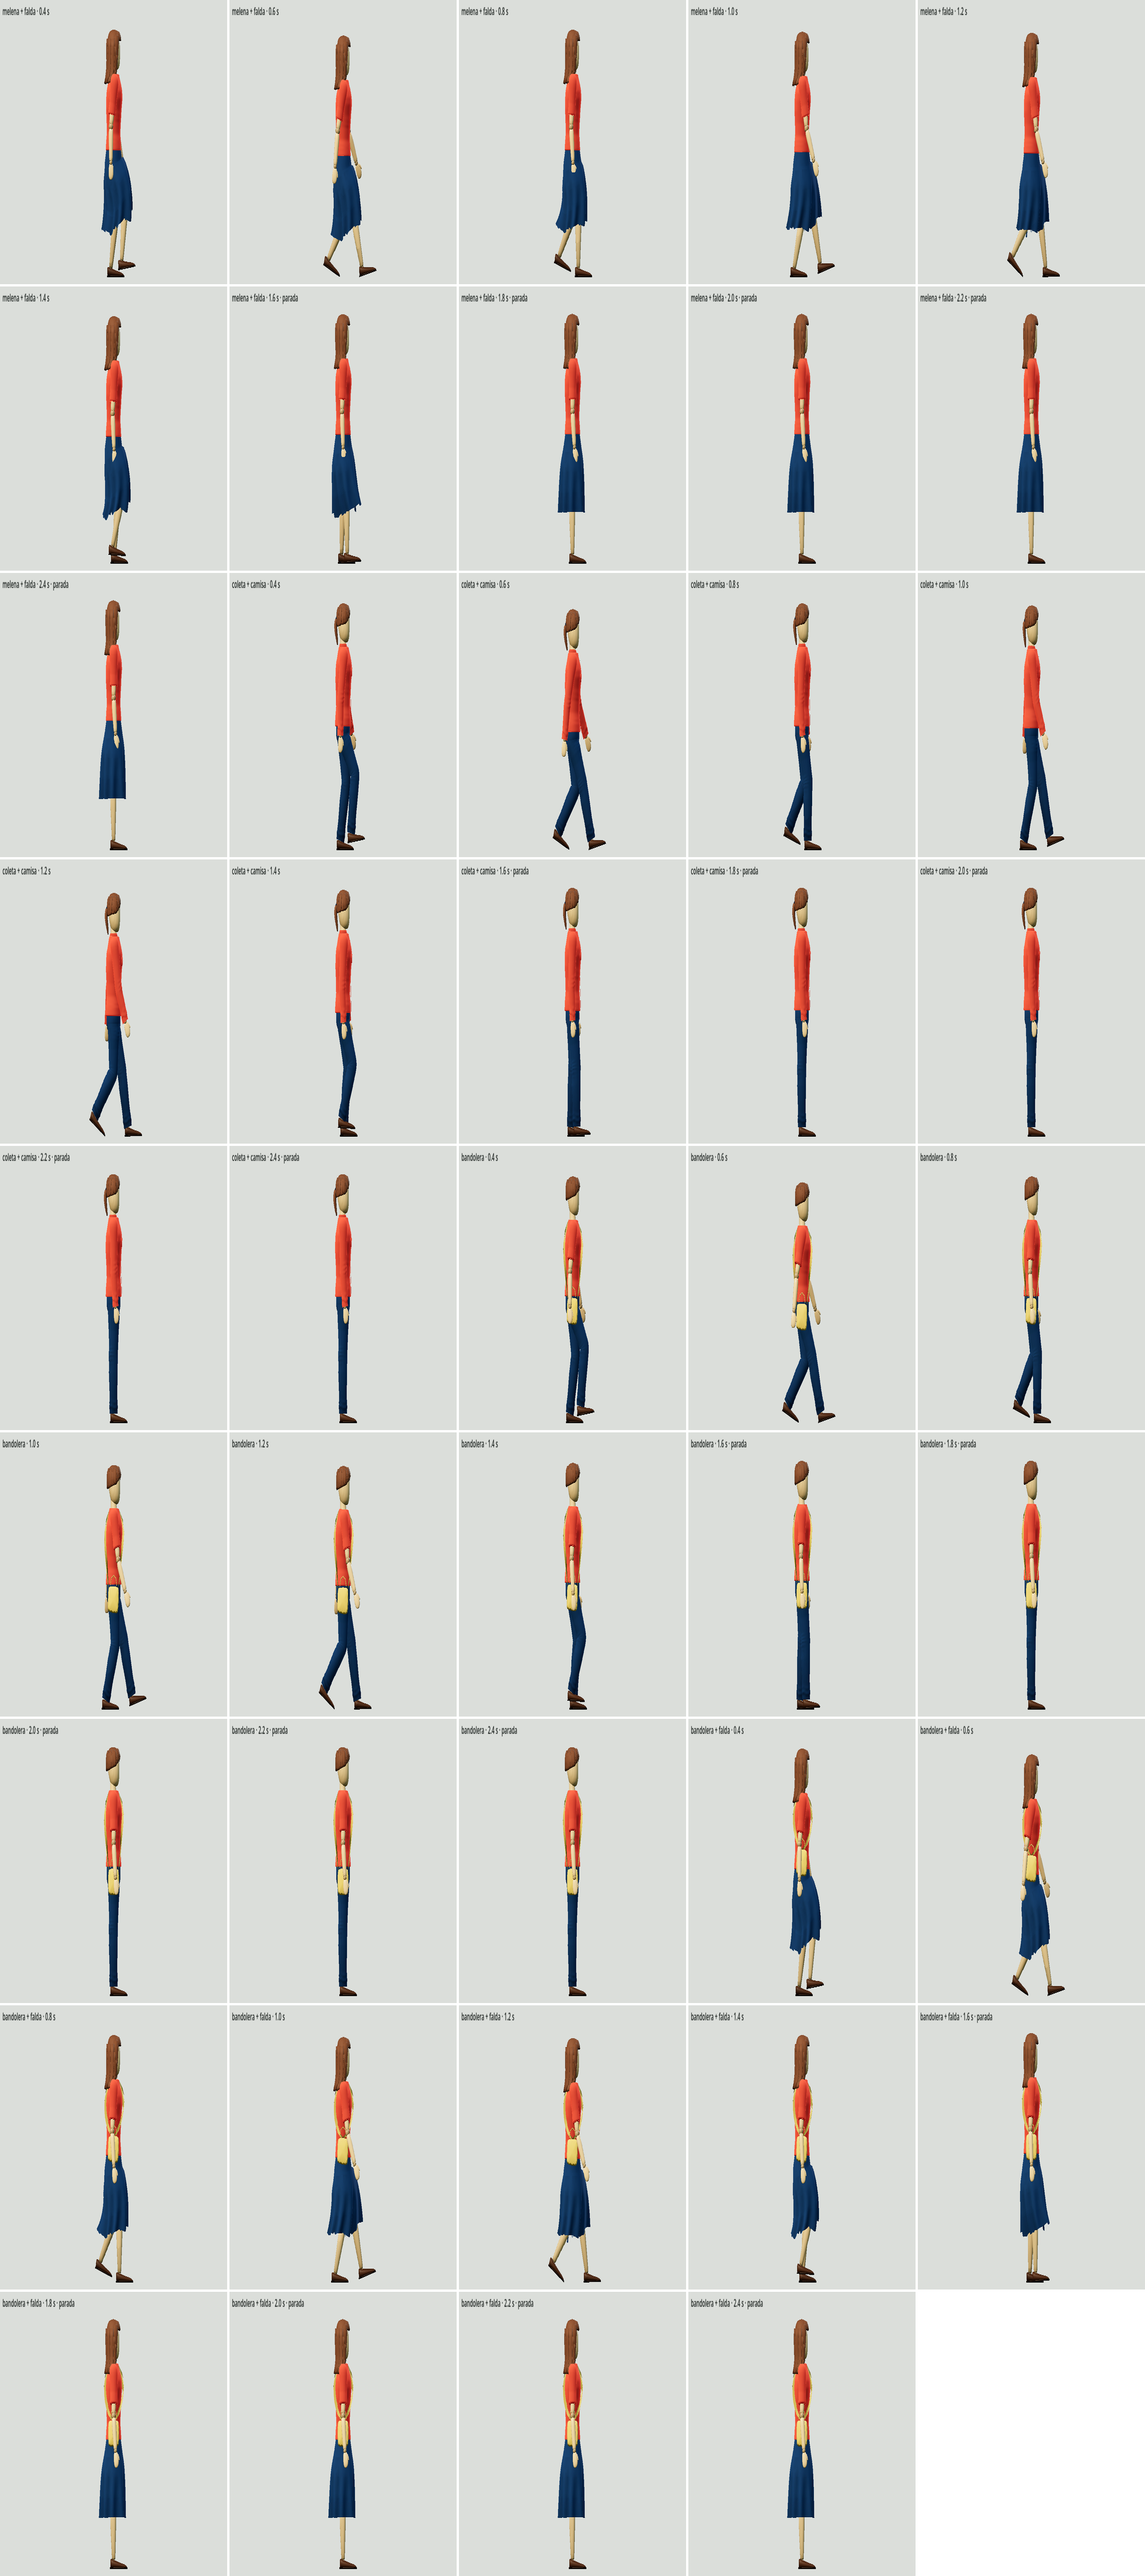
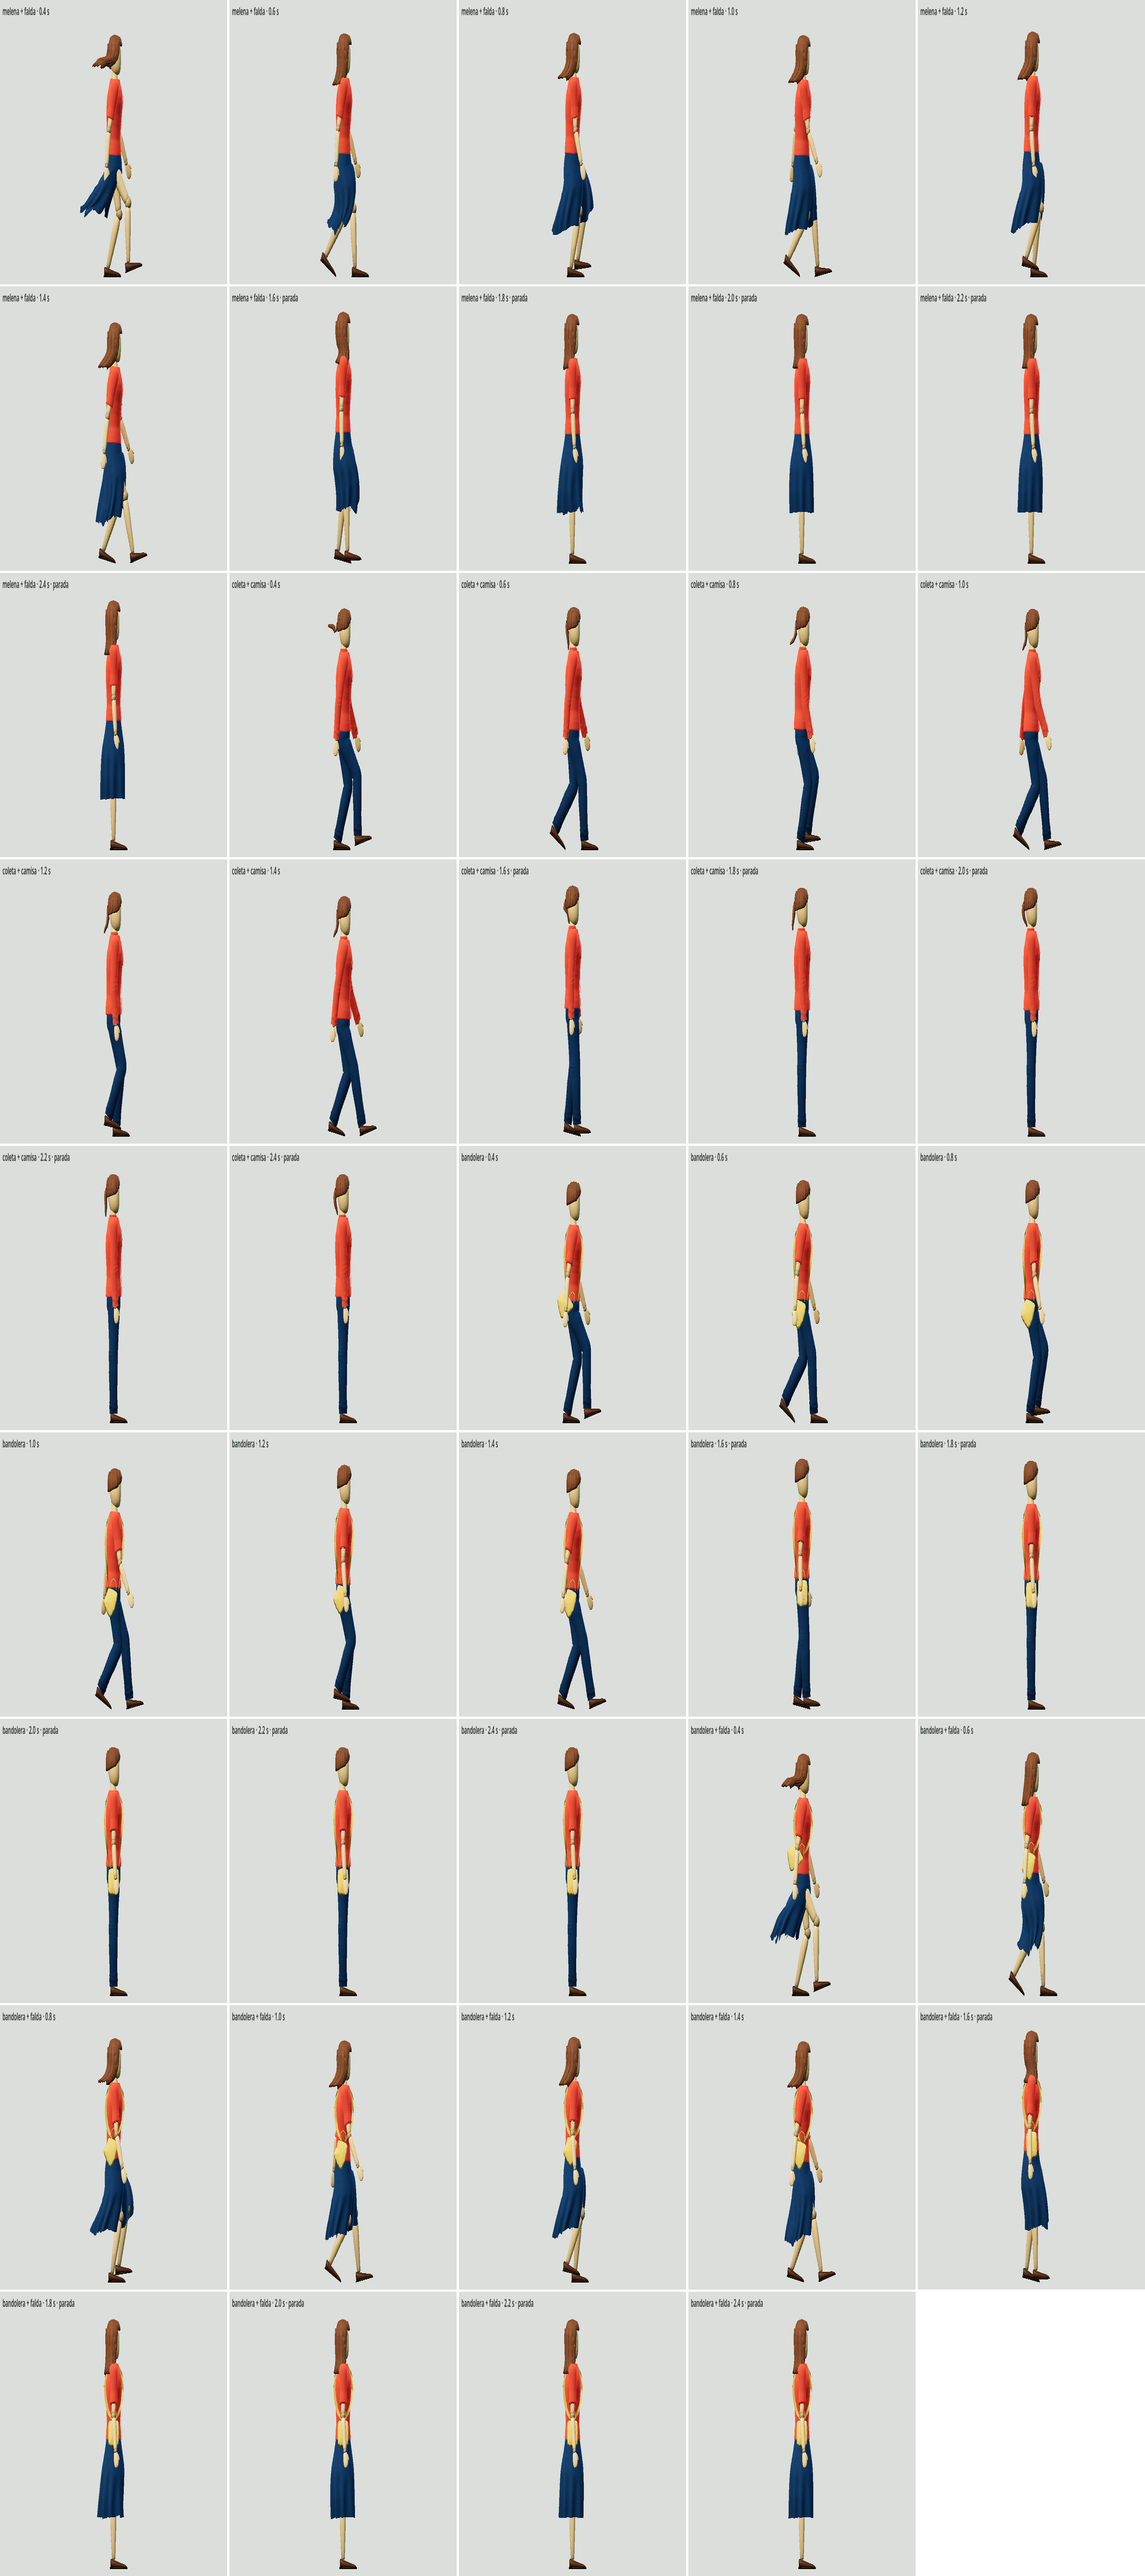
fix: falda, pelo y bolso cuelgan y oscilan al andar en vez de quedarse tendidos hacia atrás; la falda mantiene su pose al sentarse

diff --git a/docs/futuro/18_PERSONAJES_BLENDER.md b/docs/futuro/18_PERSONAJES_BLENDER.md
@@ -63,3 +63,9 @@ Hasta **60.000 triángulos por maniquí** en `hd` (máximo en escena: 41.372; la
 - Bandolera: la correa debe apoyarse mejor sobre el pecho.
 - Revisar los perfiles delgado, robusto y niño con zoom.
 - Nivel `lo` (Android) sigue con el catálogo antiguo.
+
+## Muelles de falda, pelo y bolso reajustados (02-10-2026)
+
+Al andar, la falda, la melena y la coleta se quedaban **tendidas hacia atrás casi en horizontal**, como una bandera, y solo caían al parar: el `drag` del `SpringBoneSimulator3D` actúa contra el aire (cuanto mayor, más se rezaga la cadena respecto de quien la lleva) y las piezas traían mucho rozamiento y casi nada de peso. `person.gd::SPRING_TUNING` fija ahora, por tipo de cadena, `[rigidez, rozamiento, gravedad]`: falda `[3,4 · 0,12 · 1,6]`, melena `[1,8 · 0,15 · 1,3]`, coleta `[1,4 · 0,12 · 1,5]`, bufanda `[1,8 · 0,15 · 1,0]` y bolso `[3,0 · 0,2 · 1,2]` (las piezas de Blender no se regeneran: los valores se aplican al montar el simulador). Tela y pelo cuelgan, oscilan con cada paso y se asientan.
+
+Sentada, la falda necesita lo contrario —mantener la pose que se le da sobre el regazo y bajo los muslos—, así que `update_skirt_springs()` lleva sus muelles a `SKIRT_SEATED` (`[9,0 · 0,5 · 0,1]`) según se sienta. Hojas `08_sentado` y `09_dinamica` regeneradas. Queda un hilo fino entre las piernas al sentarse y algún pico en el bajo al arrancar a andar.
